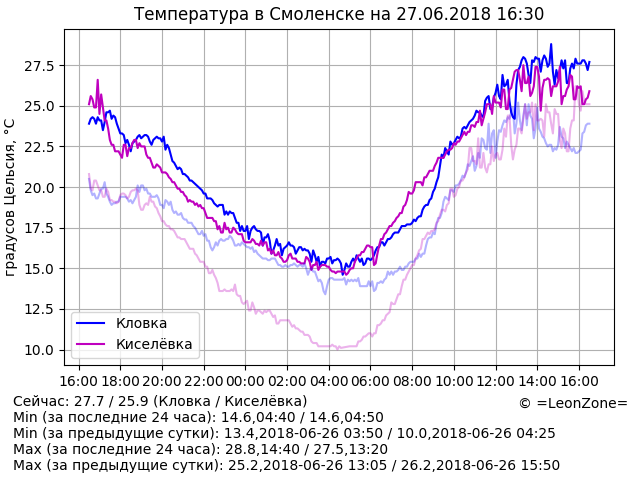
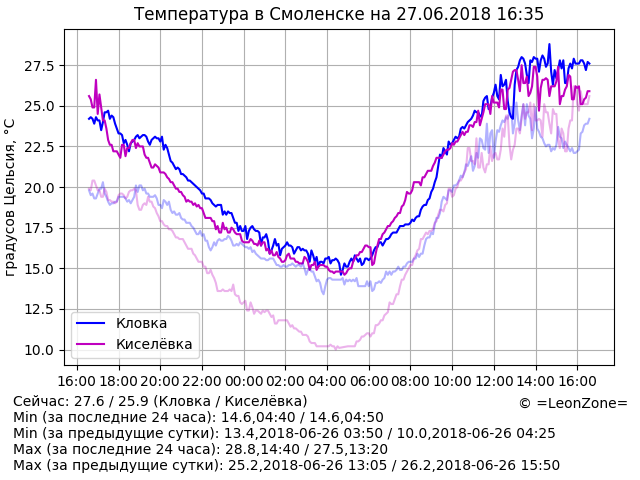
Update data

Changed region(s): [[0.125, 0.0938, 0.9375, 0.75], [0.0938, 0.7812, 0.9375, 0.8438]]

diff --git a/index.html b/index.html
@@ -14,7 +14,7 @@
 	<p align="center"><script>document.write("<img src=\"graph.png?rnd="+Math.random()+"\" alt=\"Температура в Смоленске\" align=\"middle\" width=\"640\" height=\"480\" />")</script>
 	<p hidden="true">
 <!-- textinfo -->
-Сейчас: 27.7 / 25.9 (Кловка / Киселёвка)
+Сейчас: 27.6 / 25.9 (Кловка / Киселёвка)
 Min (за последние 24 часа): 14.6,04:40 / 14.6,04:50
 Min (за предыдущие сутки): 13.4,2018-06-26 03:50 / 10.0,2018-06-26 04:25
 Max (за последние 24 часа): 28.8,14:40 / 27.5,13:20
